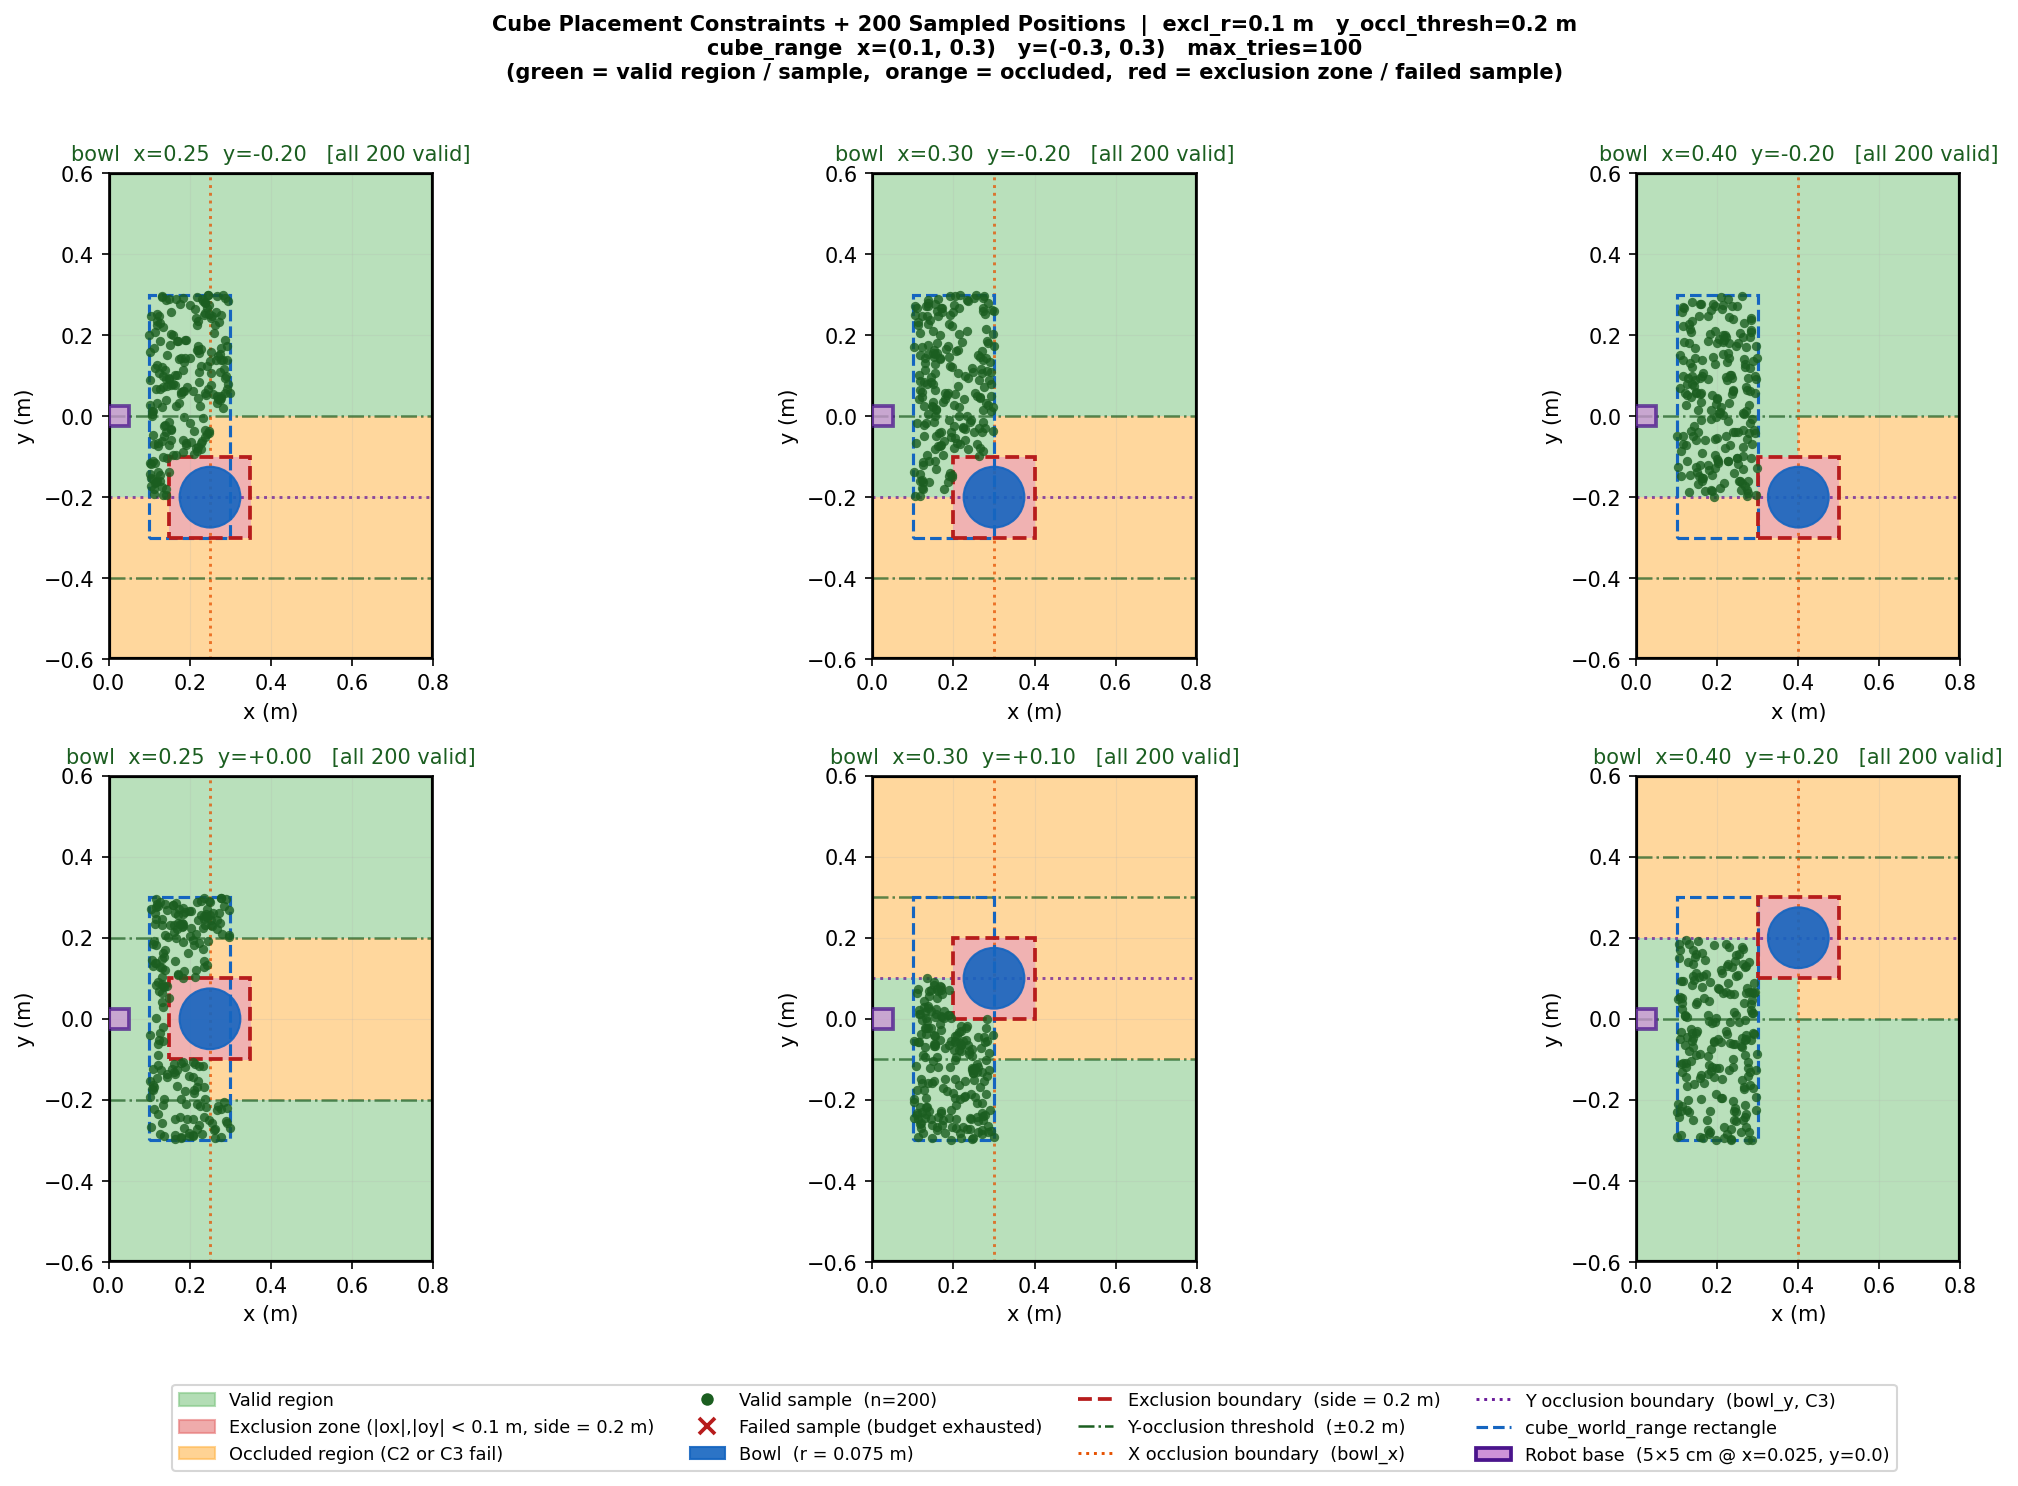
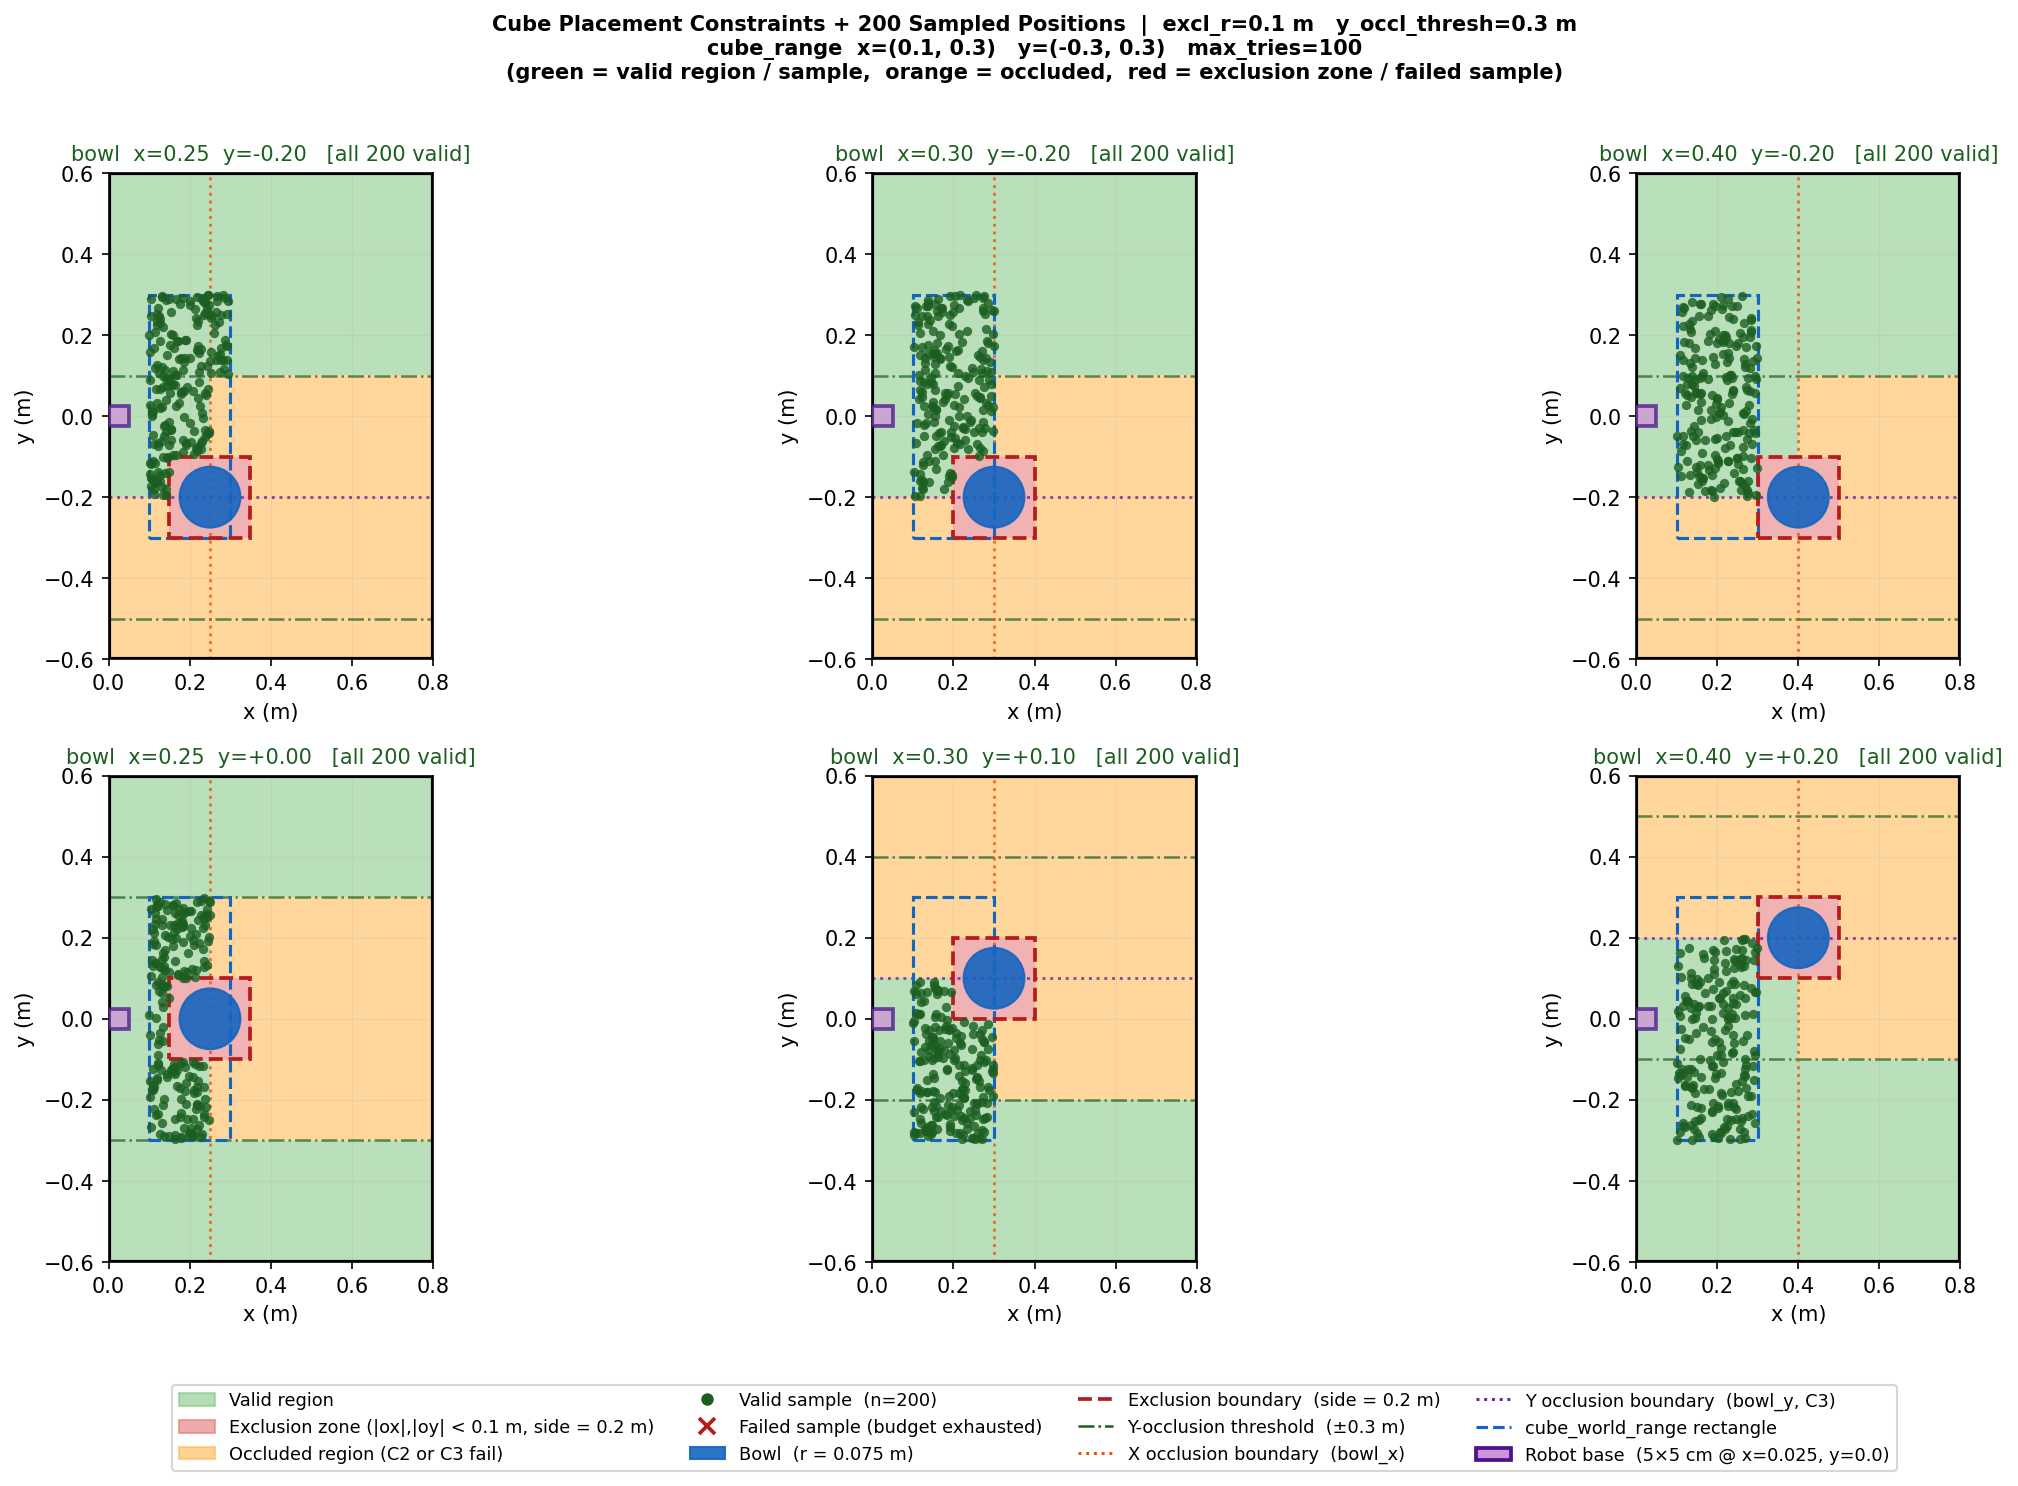
update from pick place

diff --git a/isaac_so_arm101/src/isaac_so_arm101/tasks/lift_camera/joint_pos_env_cfg.py b/isaac_so_arm101/src/isaac_so_arm101/tasks/lift_camera/joint_pos_env_cfg.py
@@ -39,9 +39,9 @@ class SoArm101LiftCameraEnvCfg(LiftCameraEnvCfg):
                 rot=(1.0, 0.0, 0.0, 0.0),
                 joint_pos={
                     "shoulder_pan": 0.0, # +_ 90 deg -> +-1.57
-                    "shoulder_lift": -0.4, # 0-90 deg -> +-1.05
-                    "elbow_flex": 0.5,
-                    "wrist_flex": 1.4,
+                    "shoulder_lift": -0.6, # 0-90 deg -> +-1.05
+                    "elbow_flex": -0.6,
+                    "wrist_flex": 1.57,
                     "wrist_roll": -1.57,
                     "gripper": 0.0,
                 },
@@ -103,7 +103,7 @@ class SoArm101LiftCameraEnvCfg(LiftCameraEnvCfg):
         marker_cfg.prim_path = "/Visuals/FrameTransformer"
         self.scene.ee_frame = FrameTransformerCfg(
             prim_path="{ENV_REGEX_NS}/Robot/base_link",
-            debug_vis=True,
+            debug_vis=False,
             visualizer_cfg=marker_cfg,
             target_frames=[
                 FrameTransformerCfg.FrameCfg(

diff --git a/isaac_so_arm101/src/isaac_so_arm101/tasks/lift_camera/agents/rsl_rl_ppo_cfg.py b/isaac_so_arm101/src/isaac_so_arm101/tasks/lift_camera/agents/rsl_rl_ppo_cfg.py
@@ -18,7 +18,7 @@ from isaaclab_rl.rsl_rl import (
 
 @configclass
 class LiftCameraPPORunnerCfg(RslRlOnPolicyRunnerCfg):
-    num_steps_per_env = 64 # was 24
+    num_steps_per_env = 24 # was 24
     max_iterations = 1500
     save_interval = 50
     experiment_name = "lift_camera"
@@ -34,12 +34,12 @@ class LiftCameraPPORunnerCfg(RslRlOnPolicyRunnerCfg):
         noise_std_type="scalar",  # Fixed std (cannot drift to -inf like "log" mode)
     )
     algorithm = RslRlPpoAlgorithmCfg(
-        value_loss_coef=1.0,
+        value_loss_coef=0.5,
         use_clipped_value_loss=True,
         clip_param=0.2,
         entropy_coef=0.01, # was 0.006
         num_learning_epochs=5,
-        num_mini_batches=8, # was 4
+        num_mini_batches=4, # was 4
         learning_rate=1.0e-4,
         schedule="adaptive",
         gamma=0.98,

diff --git a/isaac_so_arm101/src/isaac_so_arm101/tasks/pick_place/pick_place_env_cfg.py b/isaac_so_arm101/src/isaac_so_arm101/tasks/pick_place/pick_place_env_cfg.py
@@ -250,7 +250,7 @@ class EventCfg:
             "cube_world_range": {"x": (0.15, 0.35), "y": (-0.25, 0.25)},
             "exclusion_radius": 0.10,
             "exclusion_shape": "box",
-            "y_occlusion_threshold": 0.20,
+            "y_occlusion_threshold": 0.30,
             "max_placement_tries": 100,
             # Randomize cube orientation around z-axis: full 360° range.
             "cube_z_rotation_range": (0.0, 2.0 * math.pi),

diff --git a/isaac_so_arm101/src/isaac_so_arm101/tasks/lift_camera/lift_camera_env_cfg.py b/isaac_so_arm101/src/isaac_so_arm101/tasks/lift_camera/lift_camera_env_cfg.py
@@ -155,8 +155,8 @@ class ObjectTableSceneCfg(InteractiveSceneCfg):
     wrist_camera: TiledCameraCfg = TiledCameraCfg(
         prim_path="{ENV_REGEX_NS}/Robot/gripper_link/wrist_camera",
         update_period=0.1,
-        height=64,
-        width=64,
+        height=72,
+        width=128,
         data_types=["rgb"],
         spawn=sim_utils.PinholeCameraCfg(
             focal_length=9.8,# visually tuned for now, to 720x1280 images

diff --git a/isaac_so_arm101/debug/cube_placement_constraints.py b/isaac_so_arm101/debug/cube_placement_constraints.py
@@ -46,7 +46,7 @@ EXCLUSION_RADIUS = 0.10
 EXCLUSION_SHAPE = "box"
 
 # y_occlusion_threshold — half-width (m) of the y band in which C2 is enforced.
-Y_OCCLUSION_THRESHOLD = 0.20
+Y_OCCLUSION_THRESHOLD = 0.30
 
 # max_placement_tries — rejection sampling budget per reset (matches events.py default).
 MAX_PLACEMENT_TRIES = 100
